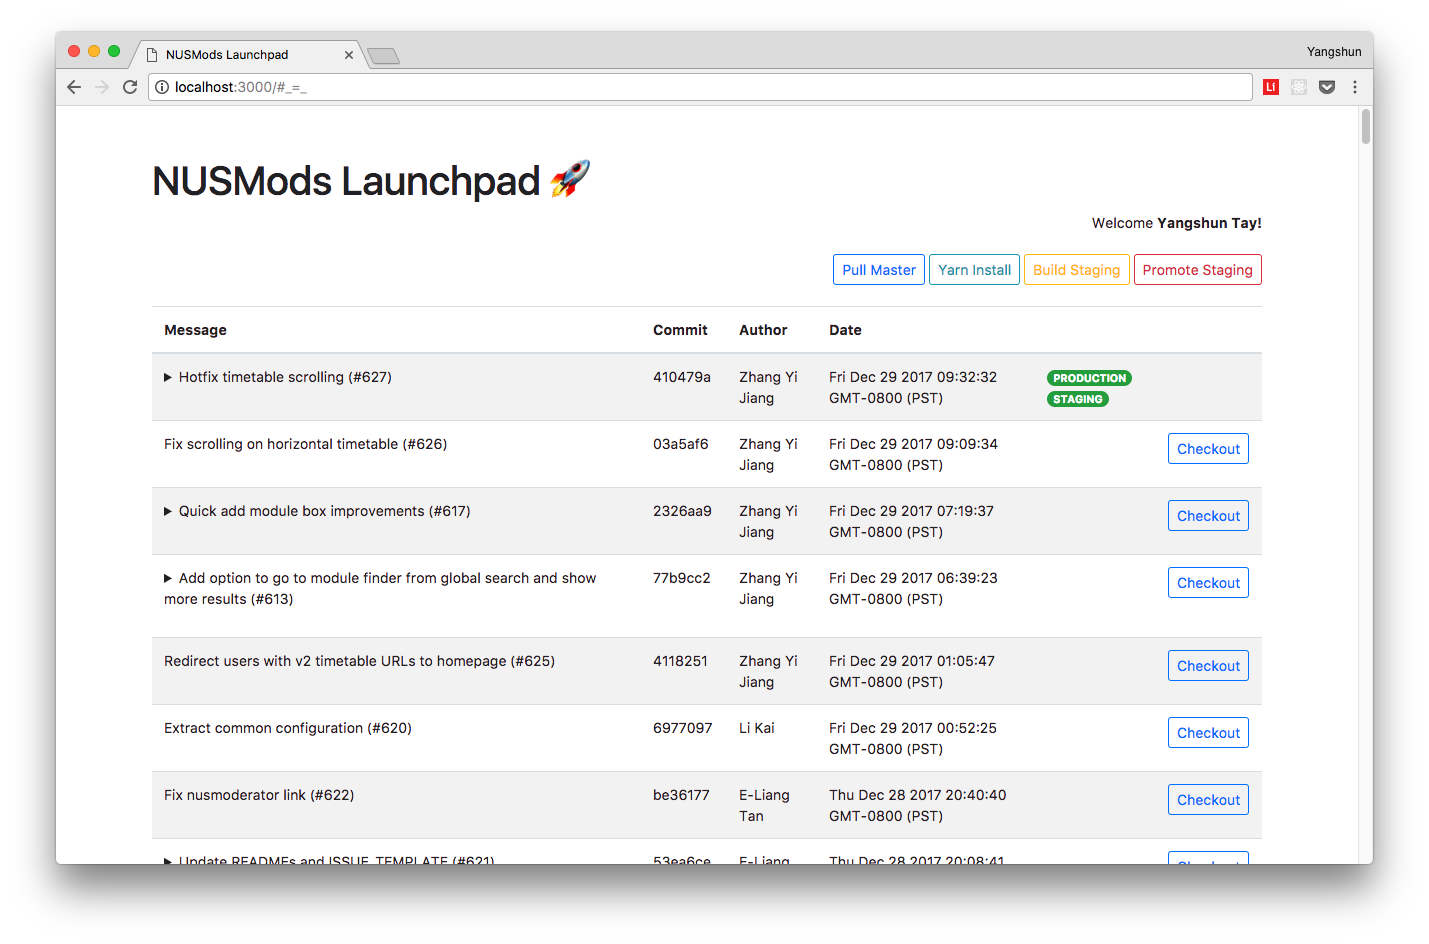
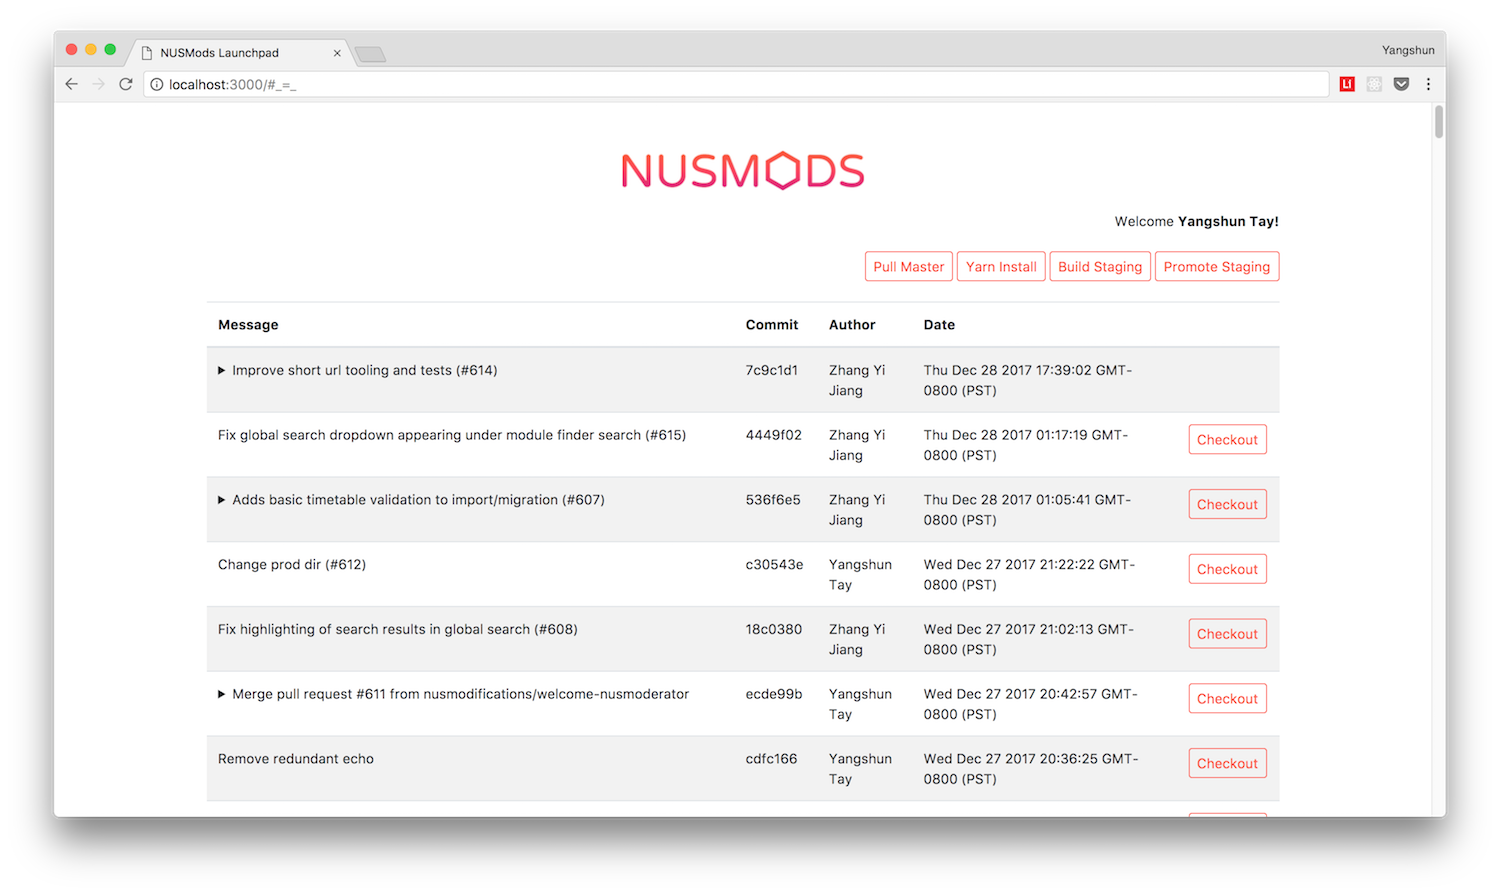
Make prettier

diff --git a/public/styles/main.css b/public/styles/main.css
@@ -4,8 +4,15 @@ body {
   font-family: -apple-system, BlinkMacSystemFont, Segoe UI, Roboto, Helvetica Neue, Arial, sans-serif;
 }
 
-a {
-  color: #00B7FF;
+.btn-outline-primary {
+  border-color: #ff5138;
+  color: #ff5138;
+}
+
+.btn-outline-primary:hover {
+  background-color: #ff5138;
+  border-color: #ff5138;
+  color: #fff;
 }
 
 summary {
